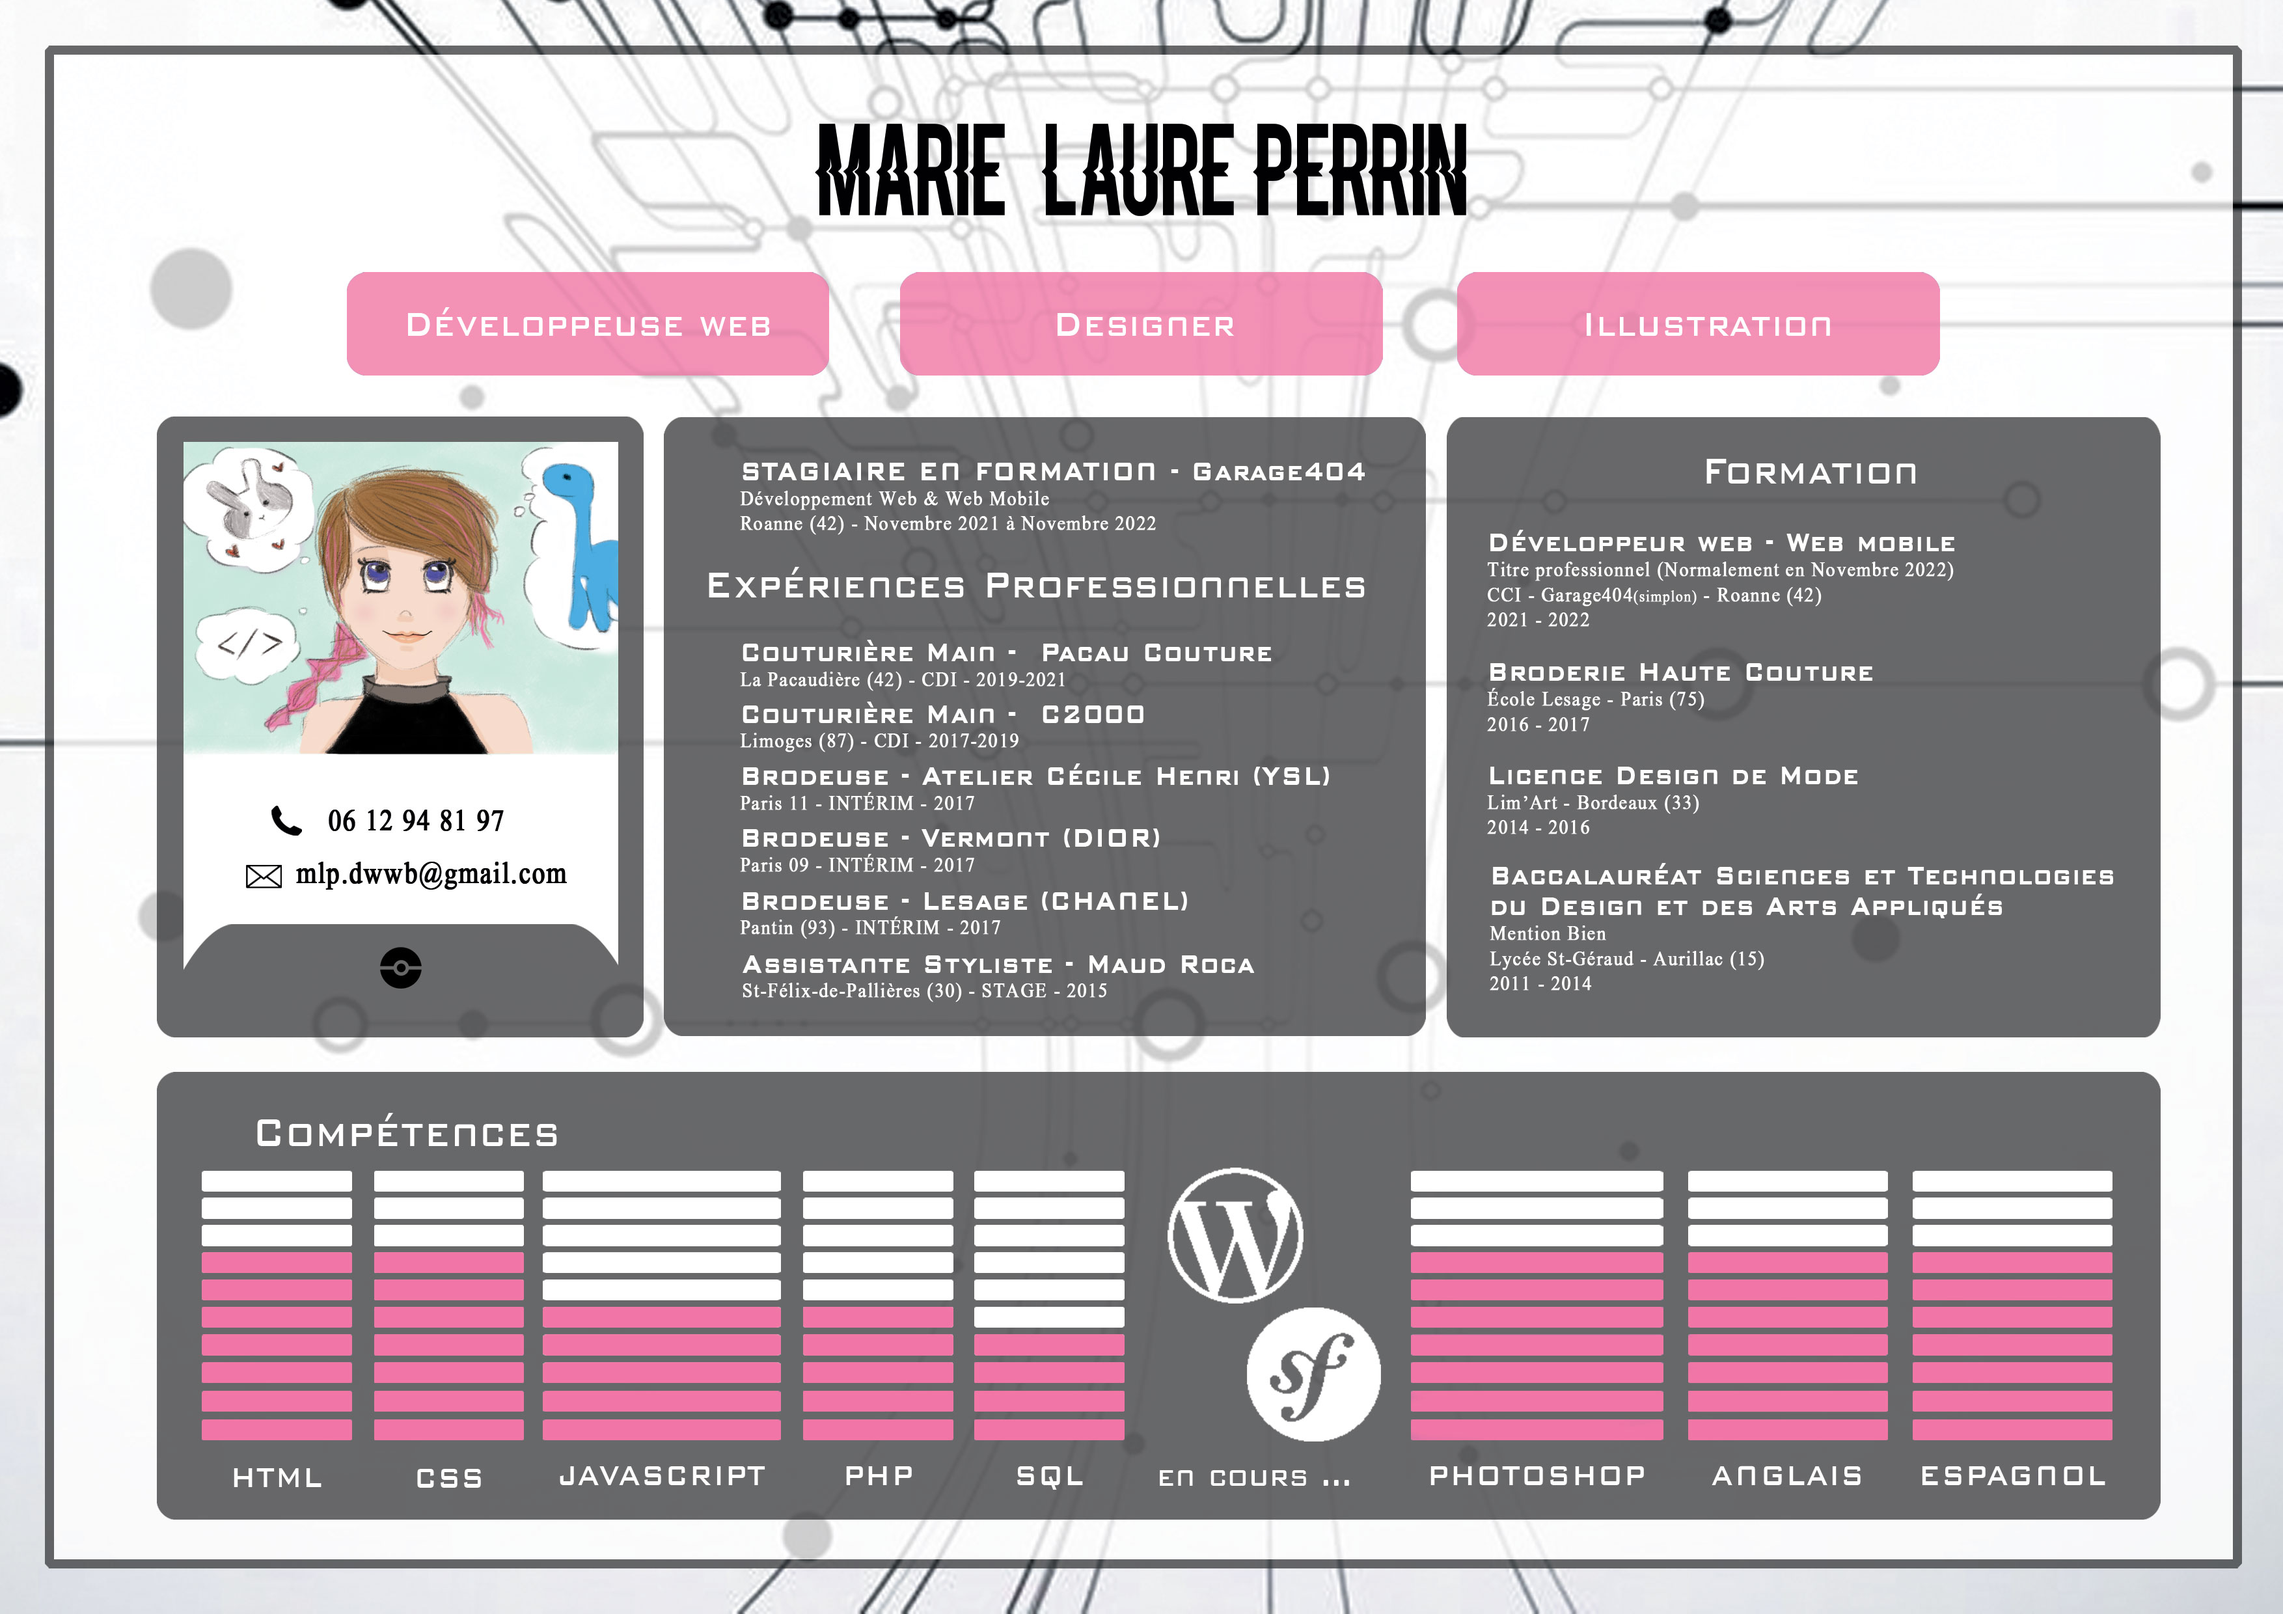
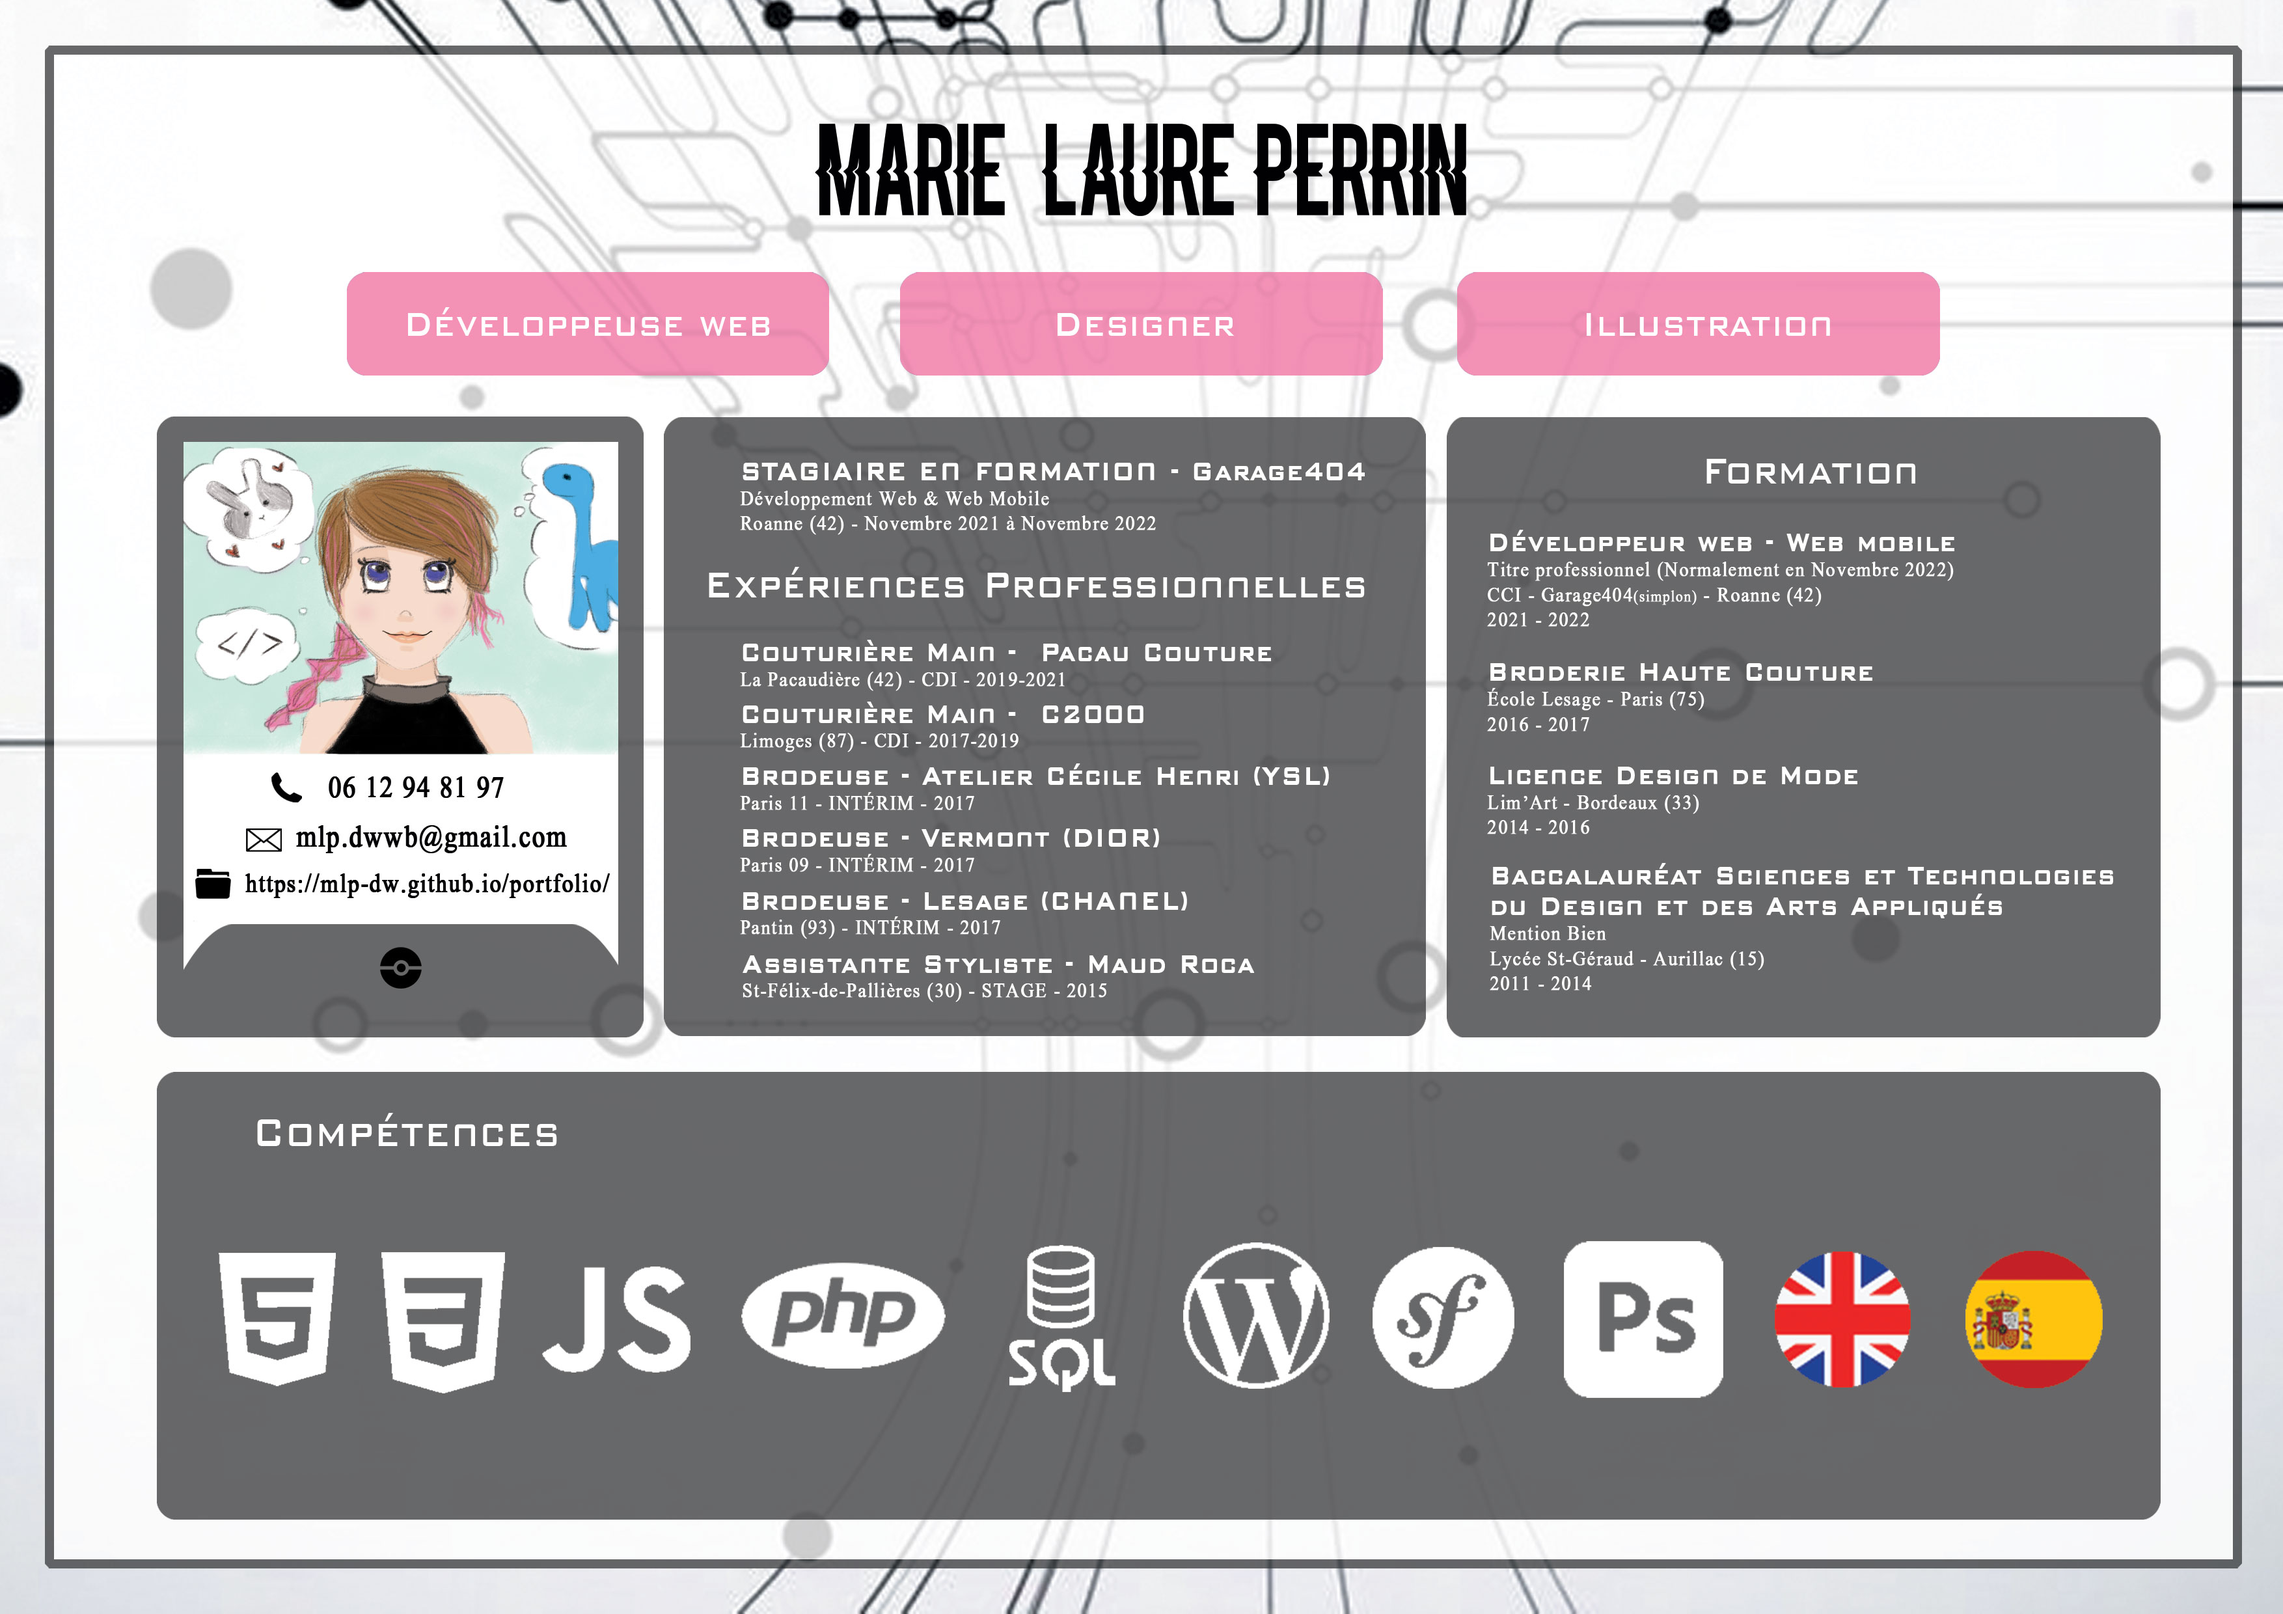
maj

Changed region(s): [[0.0621, 0.7141, 0.9322, 0.9315], [0.0621, 0.4657, 0.2486, 0.5589]]

diff --git a/index.html b/index.html
@@ -80,7 +80,7 @@
                 <a target="_blank" href="https://hunterproducts.herokuapp.com/">Product Hunt</a>
             </div>
             <div class="card mx-5 item">
-                <a target="_blank" href="">Cagnote Pote <span class="text-xs">à venir</span></a>
+                <a target="_blank" href="http://mlp-grandfroid.projets.simplon-roanne.com/">Grand Froid</a>
             </div>
         </div>
 
@@ -212,38 +212,38 @@
         
         <div class="flex flex-row flex-wrap justify-around m-10 competence">
             <div class="flex flex-col justify-center">
-                <div class="ring neon-white flex justify-center items-center m-5 colorBlock colorFill to-top70">
+                <div class="ring neon-white flex justify-center items-center m-5 colorBlock colorFill">
                     <img src="images/html.png" alt="html-logo" class="w-24 h-auto">
                 </div>
             </div>
-            <div class="ring neon-white flex justify-center items-center m-5 colorBlock colorFill to-top70">
+            <div class="ring neon-white flex justify-center items-center m-5 colorBlock colorFill">
                 <img src="images/css.png" alt="css-logo" class="w-24 h-auto">
             </div>
-            <div class="ring neon-white flex justify-center items-center m-5 colorBlock colorFill to-top50">
+            <div class="ring neon-white flex justify-center items-center m-5 colorBlock colorFill">
                 <img src="images/js.png" alt="js-logo" class="w-24 h-auto">
             </div>
-            <div class="ring neon-white flex justify-center items-center m-5 colorBlock colorFill to-top50">
+            <div class="ring neon-white flex justify-center items-center m-5 colorBlock colorFill">
                 <img src="images/php.png" alt="php-logo" class="w-24 h-auto">
             </div>
-            <div class="ring neon-white flex justify-center items-center m-5 colorBlock colorFill to-top40">
+            <div class="ring neon-white flex justify-center items-center m-5 colorBlock colorFill">
                 <img src="images/sql.png" alt="sql-logo" class="w-24 h-auto">
             </div>
         </div>  
         
         <div class="flex flex-row flex-wrap justify-around m-10 competence">
-            <div class="ring neon-white flex justify-center items-center m-5 colorBlock colorFill to-top20">
+            <div class="ring neon-white flex justify-center items-center m-5 colorBlock colorFill">
                 <img src="images/wordpress.png" alt="wordpress-logo" class="w-24 h-auto">
             </div>
-            <div class="ring neon-white flex justify-center items-center m-5 colorBlock colorFill to-top30">
+            <div class="ring neon-white flex justify-center items-center m-5 colorBlock colorFill">
                 <img src="images/symfony.png" alt="symfony-logo" class="w-24 h-auto">
             </div>
-            <div class="ring neon-white flex justify-center items-center m-5 colorBlock colorFill to-top70">
+            <div class="ring neon-white flex justify-center items-center m-5 colorBlock colorFill">
                 <img src="images/photoshop.png" alt="photoshop-logo" class="w-24 h-auto">
             </div>
-            <div class="ring neon-white flex justify-center items-center m-5 colorBlock colorFill to-top70">
+            <div class="ring neon-white flex justify-center items-center m-5 colorBlock colorFill">
                 <img src="images/anglais.png" alt="english-flag" class="w-24 h-auto">
             </div>
-            <div class="ring neon-white flex justify-center items-center m-5 colorBlock colorFill to-top80">
+            <div class="ring neon-white flex justify-center items-center m-5 colorBlock colorFill">
                 <img src="images/espagnol.png" alt="spanish-flag" class="w-24 h-auto">
             </div>
         </div>
